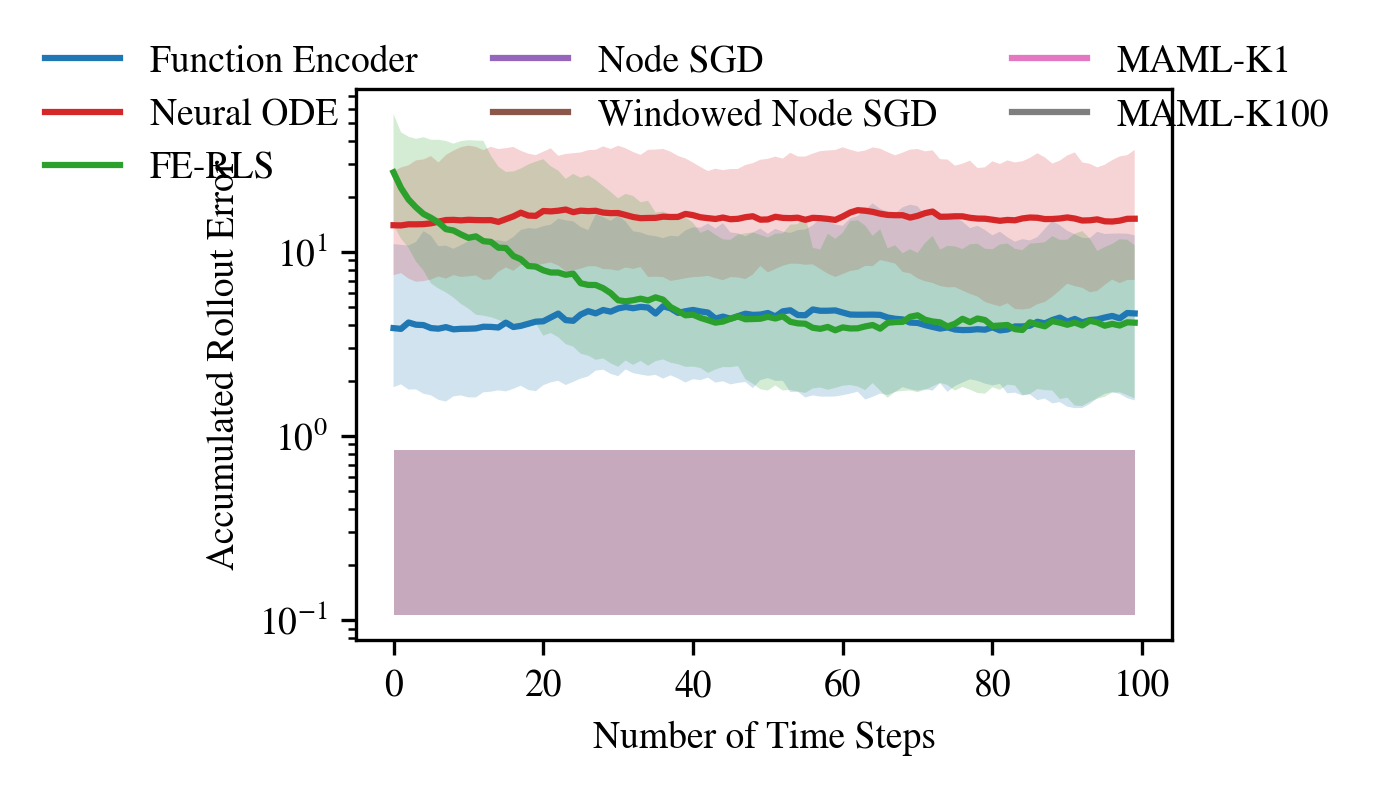
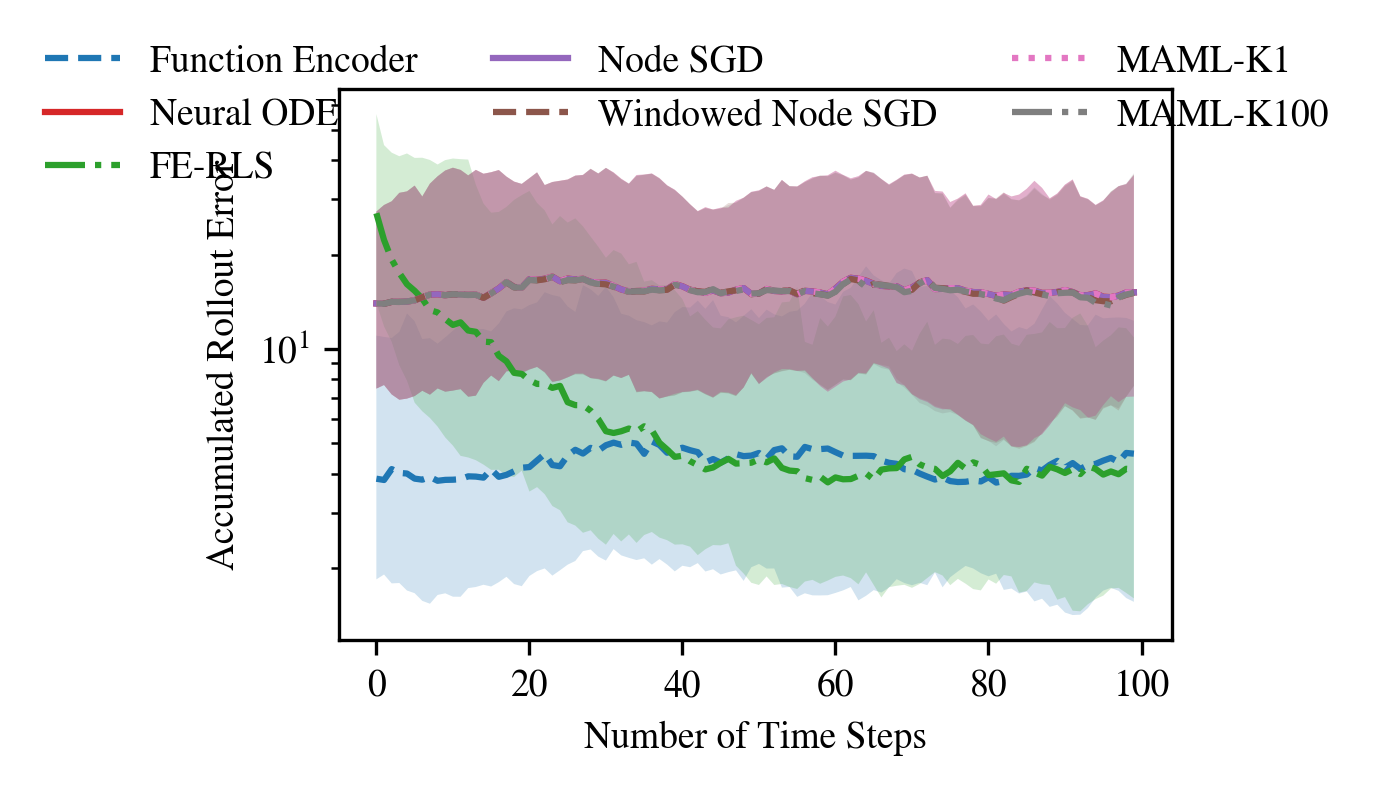
k step example, but double check

diff --git a/Phoenix/example_rls_error_k_step.py b/Phoenix/example_rls_error_k_step.py
@@ -161,6 +161,17 @@ for seed in seeds:
             # Save the results from this rollout.
             rls_results[seed] = rls_error.cpu().numpy()
 
+    # Initialize the RLS problem.
+    # model_path = f"logs/Phoenix_function_encoder/seed={seed}/function_encoder_model.pth"
+    # rls_model = load_model("function_encoder", device, n_basis, model_path)
+    # P = torch.eye(n_basis, device=device).repeat(1, 1, 1)
+    # coeffs = torch.zeros(batchsize, n_basis, device=device)
+    # rls_error = torch.zeros((batchsize, n_rollouts), device=device)
+    node_sgd_error = torch.zeros((batchsize, n_rollouts), device=device)
+    windowed_node_sgd_error = torch.zeros((batchsize, n_rollouts), device=device)
+    maml_k1_error = torch.zeros((batchsize, n_rollouts), device=device)
+    maml_k100_error = torch.zeros((batchsize, n_rollouts), device=device)
+
     # SGD-based algorithms
     # set the SGD parameters
     cumulative_data = []
@@ -183,6 +194,13 @@ for seed in seeds:
         dt_step = dt_seq[:, i, 0].unsqueeze(1)
         y_step = y_seq[:, i, 0, :].unsqueeze(1) - x_step
 
+        # # Compute new coeffs using RLS update. 
+        # g = rls_model.basis_functions((torch.cat((x_step, u_step), dim=-1), dt_step))
+        # L = torch.linalg.cholesky(P)
+        # coeffs, P = recursive_least_squares_update(
+        #     method='qr', g=g, y=y_step, P=L, coefficients=coeffs, forgetting_factor=0.95
+        # )
+
         # Append the observation to the cumulative data
         cumulative_data.append(((torch.cat((x_step,u_step), dim=-1), dt_step), y_step))
 
@@ -197,7 +215,7 @@ for seed in seeds:
 
         # Windowed version of maml
         windowed_data = cumulative_data[-window:] if len(cumulative_data) > window else cumulative_data
-        windowed_adapted_params, windowed_loss, _ = online_adapt_maml(
+        adapted_windowed_params, windowed_loss, _ = online_adapt_maml(
             model=node_model,
             loss_fn=node_model.loss_fn,
             data_stream=windowed_data,  # last `window` observations
@@ -223,44 +241,44 @@ for seed in seeds:
 
         # Make predictions with the adapted parameters
 
-        _x = x0_seq[:,i,:].clone()
-        _x_node_sgd = _x.clone()
-        _x_windowed_node_sgd = _x.clone()
-        _x_maml_k1 = _x.clone()
-        _x_maml_k100 = _x.clone()
+        # _x = x0_seq[:,i,:].clone()
+        _x_node_sgd = x0_seq[:,i,:].clone()
+        _x_windowed_node_sgd = x0_seq[:,i,:].clone()
+        _x_maml_k1 = x0_seq[:,i,:].clone()
+        _x_maml_k100 = x0_seq[:,i,:].clone()
         for k in range(k_steps):
             
             print(f"seed={seed}, rollout={i}, step={k}")
 
-            # Predict the next state and save the prediction. 
-            del_x = rls_model((torch.cat((_x.unsqueeze(1), u_seq[:,i,k,:].unsqueeze(1)), dim=-1),
-                                dt_seq[:,i,k].unsqueeze(1)), coefficients=coeffs)
+            # # Predict the next state and save the prediction. 
+            # del_x = rls_model((torch.cat((_x.unsqueeze(1), u_seq[:,i,k,:].unsqueeze(1)), dim=-1),
+            #                     dt_seq[:,i,k].unsqueeze(1)), coefficients=coeffs)
 
             # Use the adapted parameters to predict the next state.
             # Compute the neural ODE prediction error with SGD
-            node_sgd_del_x = node_model.forward((torch.cat((_x_node_sgd.unsqueeze(1), u_seq[:,i,k,:].unsqueeze(1)), dim=-1), dt_step), {'params': adapted_params})
+            node_sgd_del_x = node_model.forward((torch.cat((_x_node_sgd.unsqueeze(1), u_seq[:,i,k,:].unsqueeze(1)), dim=-1), dt_seq[:,i,k].unsqueeze(1)), {'params': adapted_params})
 
             # Compute node predictions with windowed update
-            windowed_node_sgd_del_x = node_model.forward((torch.cat((_x_windowed_node_sgd.unsqueeze(1), u_seq[:,i,k,:].unsqueeze(1)), dim=-1), dt_step), {'params': windowed_adapted_params})
+            windowed_node_sgd_del_x = node_model.forward((torch.cat((_x_windowed_node_sgd.unsqueeze(1), u_seq[:,i,k,:].unsqueeze(1)), dim=-1), dt_seq[:,i,k].unsqueeze(1)), {'params': adapted_windowed_params})
 
             # Compute MAML predictions
-            maml_k1_del_x = maml_k1_model.forward((torch.cat((_x_maml_k1.unsqueeze(1), u_seq[:,i,k,:].unsqueeze(1)), dim=-1), dt_step), model_kwargs={'params': adapted_params_maml_k1})
-            maml_k100_del_x = maml_k100_model.forward((torch.cat((_x_maml_k100.unsqueeze(1), u_seq[:,i,k,:].unsqueeze(1)), dim=-1), dt_step), model_kwargs={'params': adapted_params_maml_k100})
+            maml_k1_del_x = maml_k1_model.forward((torch.cat((_x_maml_k1.unsqueeze(1), u_seq[:,i,k,:].unsqueeze(1)), dim=-1), dt_seq[:,i,k].unsqueeze(1)), model_kwargs={'params': adapted_params_maml_k1})
+            maml_k100_del_x = maml_k100_model.forward((torch.cat((_x_maml_k100.unsqueeze(1), u_seq[:,i,k,:].unsqueeze(1)), dim=-1), dt_seq[:,i,k].unsqueeze(1)), model_kwargs={'params': adapted_params_maml_k100})
 
             # Get the next velocity in the initial body frame.
-            next_vel_Bi = _x[:,3:6] + del_x[:,:,3:6].squeeze(1)
+            # next_vel_Bi = _x[:,3:6] + del_x[:,:,3:6].squeeze(1)
 
-            next_vel_Bi_node_sgd = _x[:,3:6] + node_sgd_del_x[:,:,3:6].squeeze(1)
-            next_vel_Bi_windowed_node_sgd = _x[:,3:6] + windowed_node_sgd_del_x[:,:,3:6].squeeze(1)
-            next_vel_Bi_maml_k1 = _x[:,3:6] + maml_k1_del_x[:,:,3:6].squeeze(1)
-            next_vel_Bi_maml_k100 = _x[:,3:6] + maml_k100_del_x[:,:,3:6].squeeze(1)
+            next_vel_Bi_node_sgd = _x_node_sgd[:,3:6] + node_sgd_del_x[:,:,3:6].squeeze(1)
+            next_vel_Bi_windowed_node_sgd = _x_windowed_node_sgd[:,3:6] + windowed_node_sgd_del_x[:,:,3:6].squeeze(1)
+            next_vel_Bi_maml_k1 = _x_maml_k1[:,3:6] + maml_k1_del_x[:,:,3:6].squeeze(1)
+            next_vel_Bi_maml_k100 = _x_maml_k100[:,3:6] + maml_k100_del_x[:,:,3:6].squeeze(1)
 
             # Transform the velocity back to the body frame.
-            next_vel_B = inertial_to_body(
-                bIMat=del_x[:,:,:3].squeeze(1),
-                xIMat=next_vel_Bi,
-                device=device
-            )
+            # next_vel_B = inertial_to_body(
+            #     bIMat=del_x[:,:,:3].squeeze(1),
+            #     xIMat=next_vel_Bi,
+            #     device=device
+            # )
 
             next_vel_B_node_sgd = inertial_to_body(
                 bIMat=node_sgd_del_x[:,:,:3].squeeze(1),
@@ -285,7 +303,7 @@ for seed in seeds:
             )
 
             # Prepare the new current state. 
-            _x = torch.cat((torch.zeros((batchsize, 3), device=device), next_vel_B), dim=-1)
+            # _x = torch.cat((torch.zeros((batchsize, 3), device=device), next_vel_B), dim=-1)
 
             _x_node_sgd = torch.cat((torch.zeros((batchsize, 3), device=device), next_vel_B_node_sgd), dim=-1)  
             _x_windowed_node_sgd = torch.cat((torch.zeros((batchsize, 3), device=device), next_vel_B_windowed_node_sgd), dim=-1)
@@ -293,29 +311,28 @@ for seed in seeds:
             _x_maml_k100 = torch.cat((torch.zeros((batchsize, 3), device=device), next_vel_B_maml_k100), dim=-1)    
 
             # Calculate and accumulate the error. 
-            pred = torch.cat((del_x[:,:,:3].squeeze(1), next_vel_Bi), dim=-1)
+            # pred = torch.cat((del_x[:,:,:3].squeeze(1), next_vel_Bi), dim=-1)
 
             pred_node_sgd = torch.cat((node_sgd_del_x[:,:,:3].squeeze(1), next_vel_Bi_node_sgd), dim=-1)
             pred_windowed_node_sgd = torch.cat((windowed_node_sgd_del_x[:,:,:3].squeeze(1), next_vel_Bi_windowed_node_sgd), dim=-1)
             pred_maml_k1 = torch.cat((maml_k1_del_x[:,:,:3].squeeze(1), next_vel_Bi_maml_k1), dim=-1)
             pred_maml_k100 = torch.cat((maml_k100_del_x[:,:,:3].squeeze(1), next_vel_Bi_maml_k100), dim=-1)
-
-            # rls_error[:,i] += torch.nn.functional.mse_loss(pred, y_seq[:,i,k,:])
-            rls_error[:,i] += torch.norm(y_seq[:,i,k,:] - pred, dim=-1)
+            
+            # Accumulate the errors for the RLS method
+            # rls_error[:,i] += torch.norm(y_seq[:,i,k,:] - pred, dim=-1)
 
             # Accumulate the errors for the SGD-based methods
-            node_sgd_error = torch.norm(y_seq[:,i,k,:] - pred_node_sgd, dim=-1)
-            windowed_node_sgd_error = torch.norm(y_seq[:,i,k,:] - pred_windowed_node_sgd, dim=-1)
-            maml_k1_error = torch.norm(y_seq[:,i,k,:] - pred_maml_k1, dim=-1)
-            maml_k100_error = torch.norm(y_seq[:,i,k,:] - pred_maml_k100, dim=-1)
+            node_sgd_error[:,i] += torch.norm(y_seq[:,i,k,:] - pred_node_sgd, dim=-1)
+            windowed_node_sgd_error[:,i] += torch.norm(y_seq[:,i,k,:] - pred_windowed_node_sgd, dim=-1)
+            maml_k1_error[:,i] += torch.norm(y_seq[:,i,k,:] - pred_maml_k1, dim=-1)
+            maml_k100_error[:,i] += torch.norm(y_seq[:,i,k,:] - pred_maml_k100, dim=-1)
 
         # Save the results from this rollout.
         node_sgd_results[seed] = node_sgd_error.cpu().detach().numpy()
         windowed_node_sgd_results[seed] = windowed_node_sgd_error.cpu().detach().numpy()
         maml_k1_results[seed] = maml_k1_error.cpu().detach().numpy()
         maml_k100_results[seed] = maml_k100_error.cpu().detach().numpy()
-
-
+        # rls_results[seed] = rls_error.cpu().detach().numpy()
 
 # Use STIX fonts (LaTeX-style) and apply them consistently
 plt.rcParams.update({
@@ -333,8 +350,9 @@ plt.rcParams.update({
 fig = plt.figure(figsize=(3.5, 2.5))
 colors = {"neural_ode": "#D62728", "function_encoder": "#1F77B4", "rls": "#2ca02c", "node_sgd": "#9467bd", "windowed_node_sgd": "#8c564b", "maml_k1": "#e377c2", "maml_k100": "#7f7f7f"}
 names = {"neural_ode": "Neural ODE", "function_encoder": "Function Encoder", "rls": "FE-RLS", "node_sgd": "Node SGD", "windowed_node_sgd": "Windowed Node SGD", "maml_k1": "MAML-K1", "maml_k100": "MAML-K100"}
-
+linestyles = {"neural_ode": "-", "function_encoder": "--", "rls": "-.", "node_sgd": "-", "windowed_node_sgd": "--", "maml_k1": ":", "maml_k100": "-."}
 for mt in model_types + ["rls", "node_sgd", "windowed_node_sgd", "maml_k1", "maml_k100"]:
+# for mt in ["node_sgd", "windowed_node_sgd", "maml_k1", "maml_k100"]:
     # Collect the final accumulated errors from all seeds and all rollouts
     if mt == "rls":
         errors = np.concatenate([rls_results[seed] for seed in seeds], axis=0)
@@ -355,7 +373,7 @@ for mt in model_types + ["rls", "node_sgd", "windowed_node_sgd", "maml_k1", "mam
     _max = np.percentile(errors, 90, axis=0)
 
     # Plot median, min, and max. 
-    plt.plot(med, label=names[mt], color=colors[mt])
+    plt.plot(med, label=names[mt], color=colors[mt], linestyle=linestyles[mt])
     plt.fill_between(
         np.arange(n_rollouts),
         _min,
